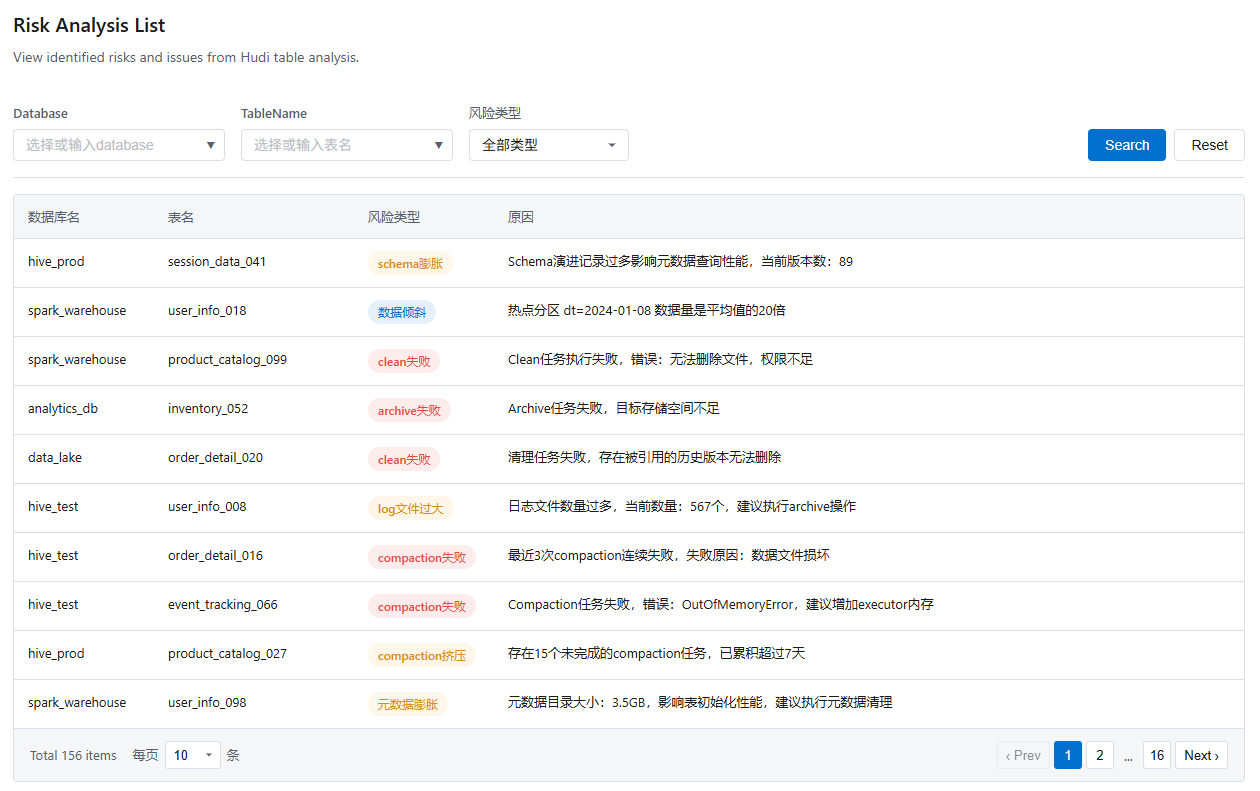
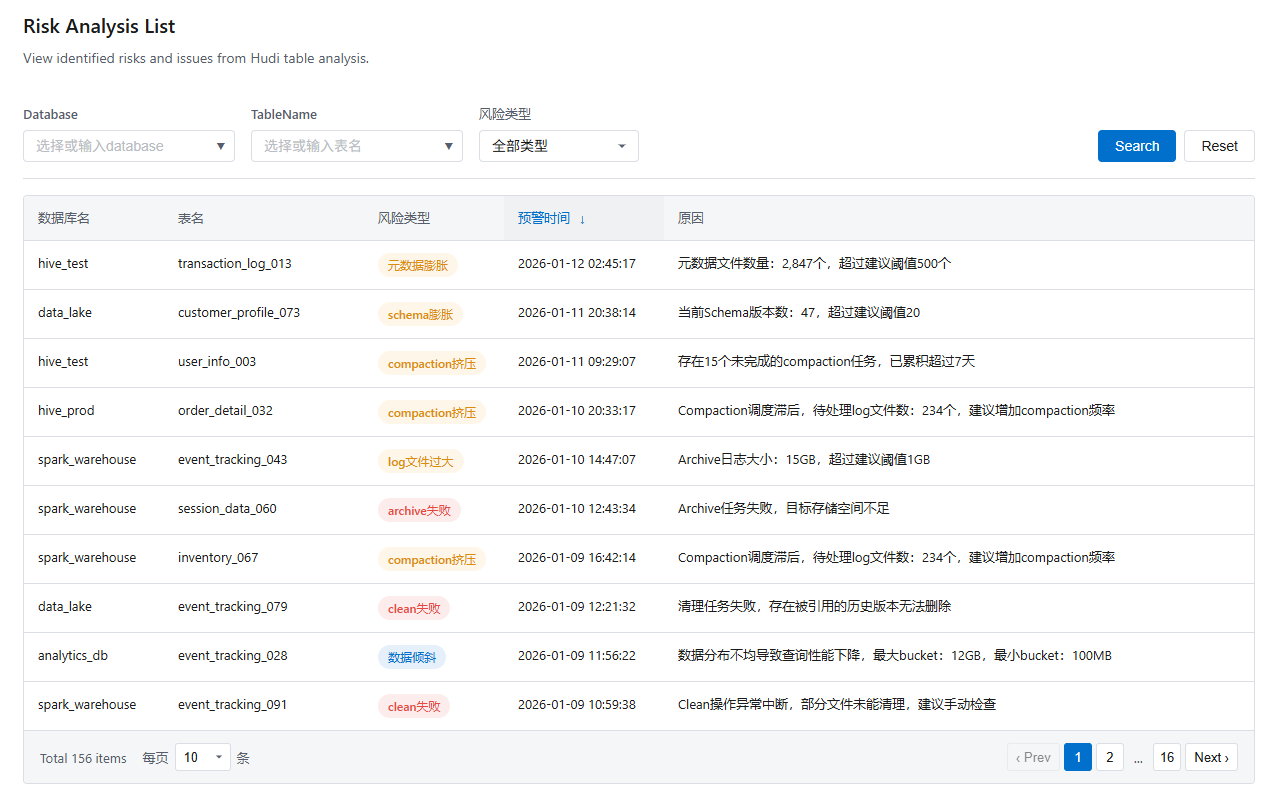
111

diff --git a/src/app/pages/risk-list/risk-list.ts b/src/app/pages/risk-list/risk-list.ts
@@ -7,6 +7,7 @@ interface RiskItem {
   database: string;
   tablename: string;
   riskType: string;
+  alertTime: string;
   reason: string;
 }
 
@@ -31,6 +32,10 @@ export class RiskListComponent implements OnInit {
   searchDatabase = '';
   searchTableName = '';
   searchRiskType = '';
+
+  // 排序
+  sortField: string = '';
+  sortDirection: 'asc' | 'desc' = 'asc';
 
   // 下拉选项
   allDatabases: string[] = [];
@@ -161,11 +166,15 @@ export class RiskListComponent implements OnInit {
       const reasonList = reasons[riskInfo.type];
       const reason = reasonList[Math.floor(Math.random() * reasonList.length)];
 
+      // 生成预警时间（过去30天内的随机时间）
+      const alertTime = this.randomDateTime(30);
+
       this.allRisks.push({
         id: `risk_${String(i).padStart(4, '0')}`,
         database: db,
         tablename: `${table}_${String(Math.floor(Math.random() * 100)).padStart(3, '0')}`,
         riskType: riskInfo.label,
+        alertTime,
         reason
       });
     }
@@ -196,6 +205,12 @@ export class RiskListComponent implements OnInit {
         risk.riskType === this.riskTypeOptions.find(o => o.value === this.searchRiskType)?.label;
       return dbMatch && tableMatch && typeMatch;
     });
+    
+    // 如果有排序，应用排序
+    if (this.sortField) {
+      this.applySort();
+    }
+    
     this.currentPage = 1;
   }
 
@@ -209,10 +224,45 @@ export class RiskListComponent implements OnInit {
     this.searchDatabase = '';
     this.searchTableName = '';
     this.searchRiskType = '';
+    this.sortField = '';
+    this.sortDirection = 'asc';
     this.filteredDatabases = [...this.allDatabases];
     this.filteredTableNames = [...this.allTableNames];
     this.filteredRisks = [...this.allRisks];
     this.currentPage = 1;
+  }
+
+  // 排序
+  onSort(field: string): void {
+    if (this.sortField === field) {
+      this.sortDirection = this.sortDirection === 'asc' ? 'desc' : 'asc';
+    } else {
+      this.sortField = field;
+      this.sortDirection = 'asc';
+    }
+    this.applySort();
+  }
+
+  applySort(): void {
+    this.filteredRisks.sort((a, b) => {
+      const aVal = (a as any)[this.sortField];
+      const bVal = (b as any)[this.sortField];
+      const modifier = this.sortDirection === 'asc' ? 1 : -1;
+      
+      // 日期时间排序（格式：YYYY-MM-DD HH:mm:ss）
+      if (this.sortField === 'alertTime') {
+        const aDate = new Date(aVal).getTime();
+        const bDate = new Date(bVal).getTime();
+        return (aDate - bDate) * modifier;
+      }
+      
+      // 字符串排序
+      if (typeof aVal === 'string' && typeof bVal === 'string') {
+        return aVal.localeCompare(bVal) * modifier;
+      }
+      
+      return 0;
+    });
   }
 
   // Database 下拉搜索
@@ -278,6 +328,13 @@ export class RiskListComponent implements OnInit {
 
   onPageSizeChange(): void {
     this.currentPage = 1;
+  }
+
+  // 生成随机日期时间（过去N天内）
+  randomDateTime(daysBack: number): string {
+    const now = new Date();
+    const past = new Date(now.getTime() - Math.random() * daysBack * 24 * 60 * 60 * 1000);
+    return past.toISOString().slice(0, 19).replace('T', ' ');
   }
 
   // 获取风险类型的样式类

diff --git a/src/app/pages/risk-list/risk-list.html b/src/app/pages/risk-list/risk-list.html
@@ -84,6 +84,19 @@
             <th class="col-database">数据库名</th>
             <th class="col-tablename">表名</th>
             <th class="col-risk-type">风险类型</th>
+            <th 
+              class="col-alert-time sortable" 
+              (click)="onSort('alertTime')"
+              [class.sort-active]="sortField === 'alertTime'">
+              预警时间
+              <span class="sort-icon" [class.active]="sortField === 'alertTime'">
+                @if (sortField === 'alertTime') {
+                  {{ sortDirection === 'asc' ? '↑' : '↓' }}
+                } @else {
+                  ↕
+                }
+              </span>
+            </th>
             <th class="col-reason">原因</th>
           </tr>
         </thead>
@@ -97,11 +110,12 @@
                   {{ risk.riskType }}
                 </span>
               </td>
+              <td class="col-alert-time">{{ risk.alertTime }}</td>
               <td class="col-reason">{{ risk.reason }}</td>
             </tr>
           } @empty {
             <tr>
-              <td colspan="4" class="empty-cell">暂无风险数据</td>
+              <td colspan="5" class="empty-cell">暂无风险数据</td>
             </tr>
           }
         </tbody>

diff --git a/src/app/pages/risk-list/risk-list.scss b/src/app/pages/risk-list/risk-list.scss
@@ -251,6 +251,20 @@ $risk-info: #0070cc;
       border-bottom: 1px solid $border-color;
       white-space: nowrap;
       user-select: none;
+
+      &.sortable {
+        cursor: pointer;
+        transition: all 0.2s;
+        
+        &:hover {
+          color: $primary-color;
+          background: darken($bg-gray, 2%);
+        }
+      }
+
+      &.sort-active {
+        color: $primary-color;
+      }
     }
   }
 
@@ -290,6 +304,26 @@ $risk-info: #0070cc;
 .col-risk-type {
   width: 140px;
   min-width: 140px;
+}
+
+.col-alert-time {
+  width: 160px;
+  min-width: 160px;
+  white-space: nowrap;
+  position: relative;
+}
+
+.sort-icon {
+  display: inline-block;
+  margin-left: 6px;
+  font-size: 12px;
+  color: #b8bcc4;
+  vertical-align: middle;
+  transition: color 0.2s;
+
+  &.active {
+    color: $primary-color;
+  }
 }
 
 .col-reason {
@@ -444,4 +478,5 @@ $risk-info: #0070cc;
     gap: 8px;
   }
 }
+
 
